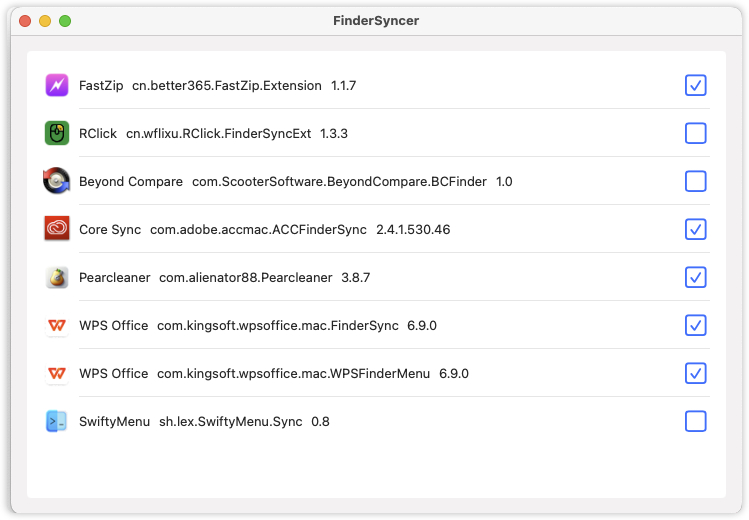
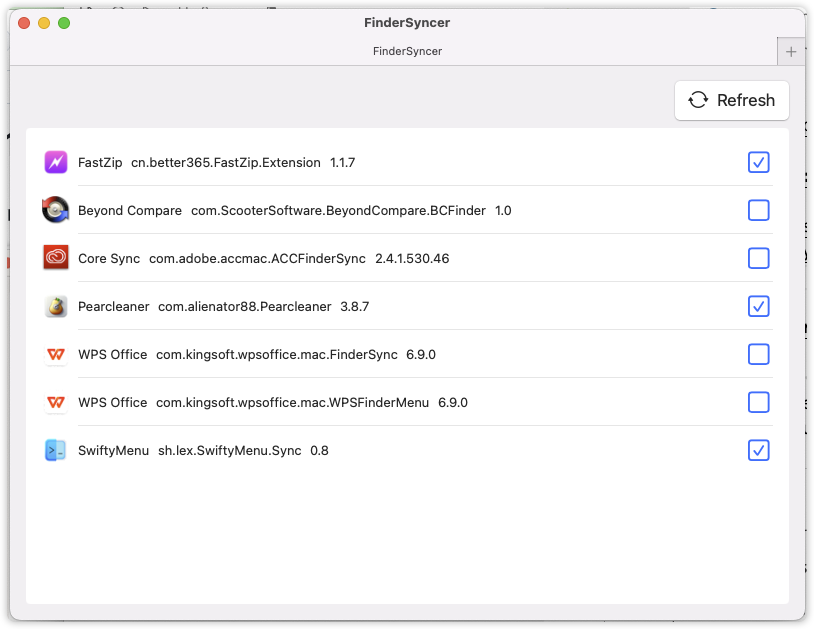
feat: add refresh

diff --git a/FinderSyncer/ContentView.swift b/FinderSyncer/ContentView.swift
@@ -16,7 +16,7 @@ struct ContentView: View {
     @State private var vibrateOnRing = false
 
     var body: some View {
-        VStack {
+        Section {
             List(extensionsList) { ext in
 
                 HStack {
@@ -26,7 +26,7 @@ struct ContentView: View {
                     Text(ext.parentName)
                     Text(ext.bundle)
                     Text(ext.version)
-                    
+
                     Spacer()
                     Image(systemName: ext.status == "+" ? "checkmark.square" : "square")
                         .font(.system(size: 24)) // Set the size of the SF Symbol
@@ -45,6 +45,18 @@ struct ContentView: View {
                 }
             }
             .cornerRadius(4)
+        }
+        header: {
+            HStack {
+                Spacer()
+                Button {
+                    fetchExtensions()
+                } label: {
+                    Label("Refresh", systemImage: "arrow.triangle.2.circlepath")
+                        .font(.title2)
+                        .padding(8)
+                }
+            }
         }
         .padding()
         .onAppear {
@@ -80,7 +92,7 @@ struct ContentView: View {
             print("Error running pluginkit: \(error)")
         }
 
-        let data = pipe.fileHandleForReading.readDataToEndOfFile()
+        pipe.fileHandleForReading.readDataToEndOfFile()
 
         fetchExtensions()
     }
